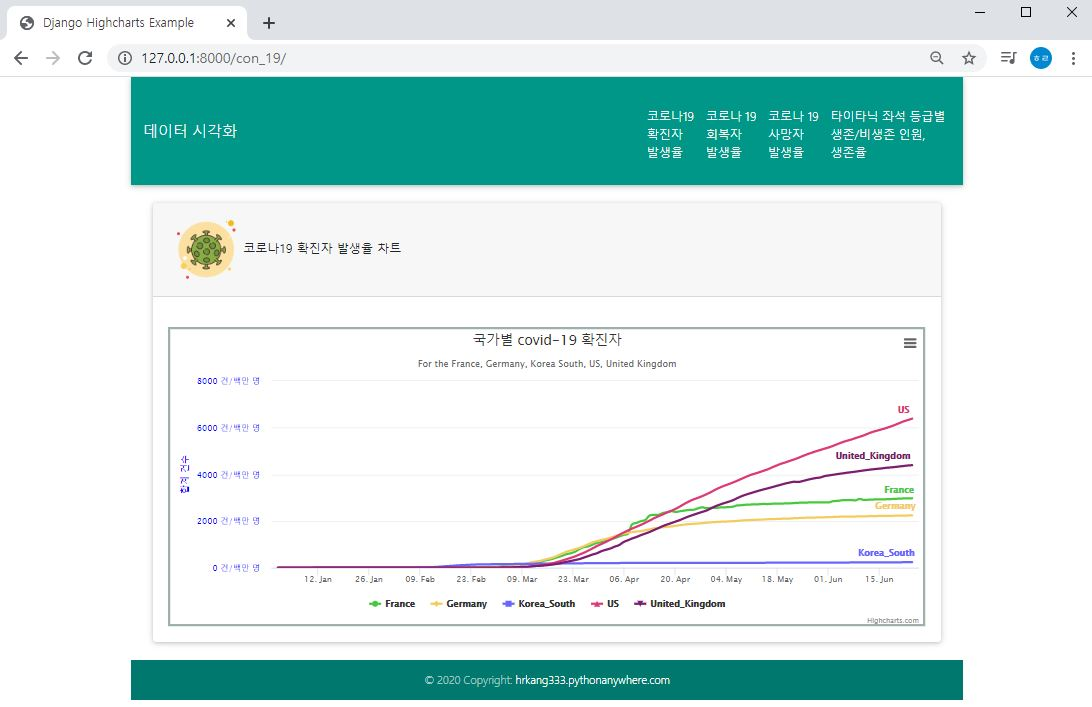
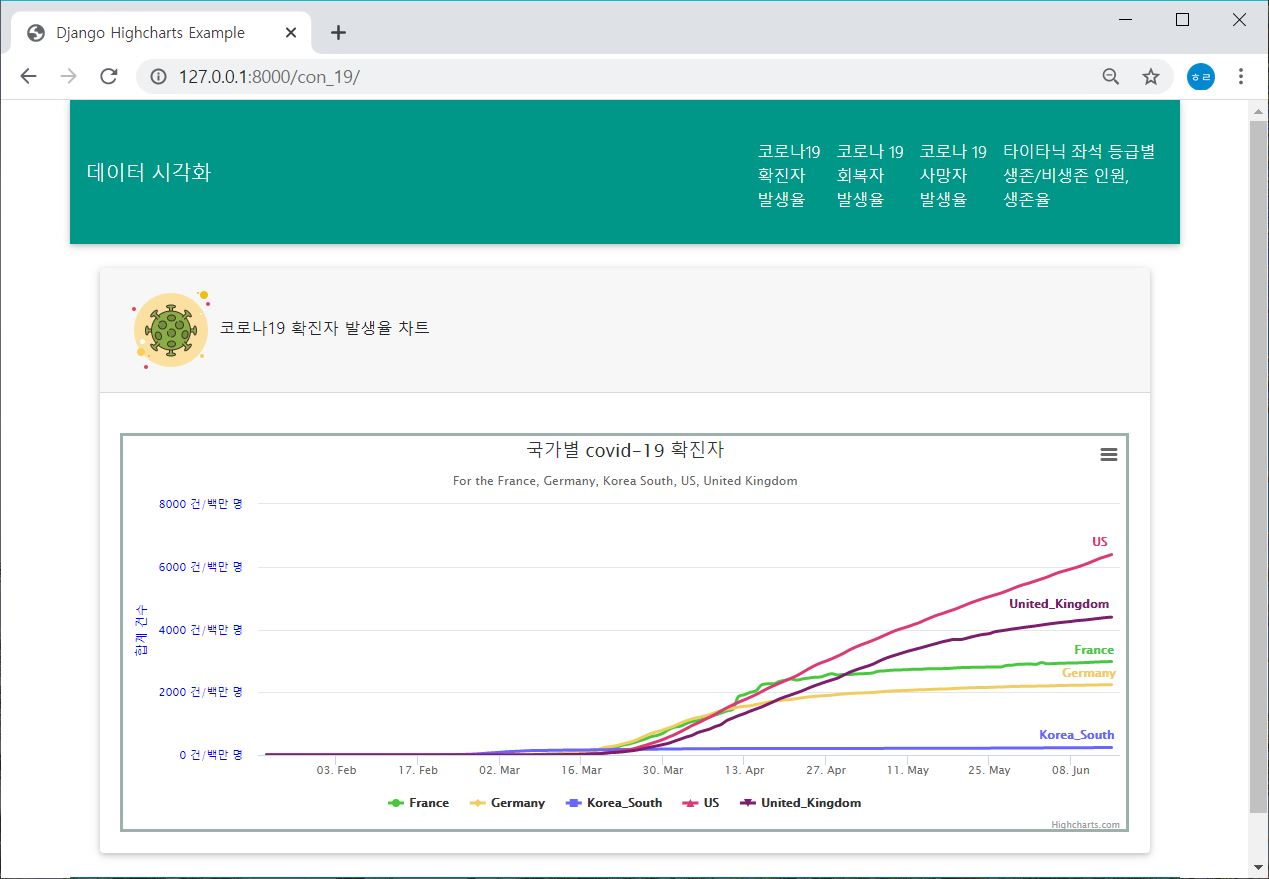
upload

diff --git a/chart/views.py b/chart/views.py
@@ -1,7 +1,10 @@
+import arrow
 from django.shortcuts import render
 from .models import Passenger, Confirmed, Deaths, Recovered
 from django.db.models import Count, Q
 import json  # ***json 임포트 추가***
+import pandas
+import numpy as np
 
 def home(request):  #메인
     dataset = Passenger.objects \
@@ -85,57 +88,52 @@ def con_19(request):    #확진자
 
 # 빈 리스트 6종 준비 (series 이름 뒤에 '_data' 추가)
     Date = list()                 # for xAxis
-    France_series_data = list()       # for series named 'France'
-    Germany_series_data = list()   # for series named 'Germany'
-    Korea_South_series_data = list()   # for series named 'Korea_South'
-    US_series_data = list()   # for series named 'US'
-    United_Kingdom_series_data = list()   # for series named 'United_Kingdom'
+    France_series_data = []       # for series named 'France'
+    Germany_series_data = []   # for series named 'Germany'
+    Korea_South_series_data = []   # for series named 'Korea_South'
+    US_series_data = []   # for series named 'US'
+    United_Kingdom_series_data = []   # for series named 'United_Kingdom'
 
 
  # 리스트 6종에 형식화된 값을 등록
     for entry in dataset:
-        Date.append(entry['Date'])         # for xAxis
 
+        Date = arrow.get(entry['Date'].year, entry['Date'].month, entry['Date'].day).timestamp*1000         # for xAxis
 
-        France_series_data.append(entry['France'])          # for series named 'France'
+        France_series_data.append([Date, np.around(entry['France'], 1)])          # for series named 'France'
 
-        Germany_series_data.append(entry['Germany'])          # for series named 'Germany'
+        Germany_series_data.append([Date, np.around(entry['Germany'], 1)])          # for series named 'Germany'
 
-        Korea_South_series_data.append(entry['Korea_South'])          # for series named 'Korea_South'
+        Korea_South_series_data.append([Date, np.around(entry['Korea_South'], 1)])          # for series named 'Korea_South'
 
-        US_series_data.append(entry['US'])          # for series named 'US'
+        US_series_data.append([Date, np.around(entry['US'], 1)])          # for series named 'US'
 
-        United_Kingdom_series_data.append(entry['United_Kingdom'])          # for series named 'United_Kingdom'
+        United_Kingdom_series_data.append([Date, np.around(entry['United_Kingdom'], 1)])          # for series named 'United_Kingdom'
 
 
     France_series = {
         'name': 'France',
         'data': France_series_data,
-        'pointInterval': 24 * 3600 * 1200,
         'color': '#47C83E'
     }
     Germany_series = {
         'name': 'Germany',
         'data': Germany_series_data,
-        'pointInterval': 24 * 3600 * 1200,
         'color': '#F2CB61'
     }
     Korea_South_series = {
         'name': 'Korea_South',
         'data': Korea_South_series_data,
-        'pointInterval': 24 * 3600 * 1200,
         'color': '#6866FF'
     }
     US_series = {
         'name': 'US',
         'data': US_series_data,
-        'pointInterval': 24 * 3600 * 1200,
         'color': '#DC3977'
     }
     United_Kingdom_series = {
         'name': 'United_Kingdom',
         'data': United_Kingdom_series_data,
-        'pointInterval': 24 * 3600 * 1200,
         'color': '#7C1D6F'
     }
 
@@ -144,7 +142,8 @@ def con_19(request):    #확진자
         'chart': {"type": "spline", "borderColor": "#9DB0AC", "borderWidth": 3},
         'title': {"text": "국가별 covid-19 확진자"},
         'subtitle': {"text": "For the France, Germany, Korea South, US, United Kingdom"},
-        'xAxis': {"type": "datetime", 'labels': {'format': '{value: %d. %b}'}},
+        'xAxis': {"type": "datetime",
+                 'labels': {'format': '{value: %d. %b}'}},
         'yAxis': [{"labels": {"format": "{value} 건/백만 명", "style": {"color": "blue"}},
                     "title": {"text": "합계 건수", "style": {"color": "blue"}}}],
         "plotOptions": {"spline": {"lineWidth": 3, "states": {"hover": {"lineWidth": 5}}}},
@@ -152,110 +151,7 @@ def con_19(request):    #확진자
         'series': [France_series, Germany_series, Korea_South_series, US_series, United_Kingdom_series]
     }
     dump = json.dumps(chart)
-
     return render(request, 'con_19.html', {'chart': dump})
-
-
-
-
-
-
-
-
-
-
-
-
-
-
-
-
-def dth_19(request):    #사망자
-    dataset = Deaths.objects \
-        .values('Date','France','Germany','Korea_South','US','United_Kingdom') \
-        .order_by('Date')
-
-# 빈 리스트 6종 준비 (series 이름 뒤에 '_data' 추가)
-    Date = list()                 # for xAxis
-    France_series_data = list()       # for series named 'France'
-    Germany_series_data = list()   # for series named 'Germany'
-    Korea_South_series_data = list()   # for series named 'Korea_South'
-    US_series_data = list()   # for series named 'US'
-    United_Kingdom_series_data = list()   # for series named 'United_Kingdom'
-
-
-    # 리스트 6종에 형식화된 값을 등록
-    for entry in dataset:
-        Date.append(entry['Date'])         # for xAxis
-
-
-        France_series_data.append(entry['France'])          # for series named 'France'
-
-        Germany_series_data.append(entry['Germany'])          # for series named 'Germany'
-
-        Korea_South_series_data.append(entry['Korea_South'])          # for series named 'Korea_South'
-
-        US_series_data.append(entry['US'])          # for series named 'US'
-
-        United_Kingdom_series_data.append(entry['United_Kingdom'])          # for series named 'United_Kingdom'
-
-
-    France_series = {
-        'name': 'France',
-        'data': France_series_data,
-        'pointInterval': 24 * 3600 * 1200,
-        'color': '#47C83E'
-    }
-    Germany_series = {
-        'name': 'Germany',
-        'data': Germany_series_data,
-        'pointInterval': 24 * 3600 * 1200,
-        'color': '#F2CB61'
-    }
-    Korea_South_series = {
-        'name': 'Korea_South',
-        'data': Korea_South_series_data,
-        'pointInterval': 24 * 3600 * 1200,
-        'color': '#6866FF'
-    }
-    US_series = {
-        'name': 'US',
-        'data': US_series_data,
-        'pointInterval': 24 * 3600 * 1200,
-        'color': '#DC3977'
-    }
-    United_Kingdom_series = {
-        'name': 'United_Kingdom',
-        'data': United_Kingdom_series_data,
-        'pointInterval': 24 * 3600 * 1200,
-        'color': '#7C1D6F'
-    }
-
-
-    chart = {
-        'chart': {"type": "spline", "borderColor": "#9DB0AC", "borderWidth": 3},
-        'title': {"text": "국가별 covid-19 사망자"},
-        'subtitle': {"text": "For the France, Germany, Korea South, US, United Kingdom"},
-        'xAxis': {"type": "datetime", 'labels': {'format': '{value: %d. %b}'}},
-        'yAxis': [{"labels": {"format": "{value} 건/백만 명", "style": {"color": "blue"}},
-                   "title": {"text": "합계 건수", "style": {"color": "blue"}}}],
-        "plotOptions": {"spline": {"lineWidth": 3, "states": {"hover": {"lineWidth": 5}}}},
-
-        'series': [France_series, Germany_series, Korea_South_series, US_series, United_Kingdom_series]
-    }
-    dump = json.dumps(chart)
-
-    return render(request, 'dth_19.html', {'chart': dump})
-
-
-
-
-
-
-
-
-
-
 
 
 
@@ -276,18 +172,18 @@ def rec_19(request):    #회복자
 
     # 리스트 6종에 형식화된 값을 등록
     for entry in dataset:
-        Date.append(entry['Date'])         # for xAxis
 
+        Date = arrow.get(entry['Date'].year, entry['Date'].month, entry['Date'].day).timestamp*1000         # for xAxis
 
-        France_series_data.append(entry['France'])          # for series named 'France'
+        France_series_data.append([Date, np.around(entry['France'], 1)])          # for series named 'France'
 
-        Germany_series_data.append(entry['Germany'])          # for series named 'Germany'
+        Germany_series_data.append([Date, np.around(entry['Germany'], 1)])          # for series named 'Germany'
 
-        Korea_South_series_data.append(entry['Korea_South'])          # for series named 'Korea_South'
+        Korea_South_series_data.append([Date, np.around(entry['Korea_South'], 1)])          # for series named 'Korea_South'
 
-        US_series_data.append(entry['US'])          # for series named 'US'
+        US_series_data.append([Date, np.around(entry['US'], 1)])          # for series named 'US'
 
-        United_Kingdom_series_data.append(entry['United_Kingdom'])          # for series named 'United_Kingdom'
+        United_Kingdom_series_data.append([Date, np.around(entry['United_Kingdom'], 1)])          # for series named 'United_Kingdom'
 
 
     France_series = {
@@ -343,7 +239,77 @@ def rec_19(request):    #회복자
 
 
 
+def dth_19(request):    #사망자
+    dataset = Deaths.objects \
+        .values('Date','France','Germany','Korea_South','US','United_Kingdom') \
+        .order_by('Date')
 
+# 빈 리스트 6종 준비 (series 이름 뒤에 '_data' 추가)
+    Date = list()                 # for xAxis
+    France_series_data = list()       # for series named 'France'
+    Germany_series_data = list()   # for series named 'Germany'
+    Korea_South_series_data = list()   # for series named 'Korea_South'
+    US_series_data = list()   # for series named 'US'
+    United_Kingdom_series_data = list()   # for series named 'United_Kingdom'
+
+
+    # 리스트 6종에 형식화된 값을 등록
+    for entry in dataset:
+
+        Date = arrow.get(entry['Date'].year, entry['Date'].month, entry['Date'].day).timestamp*1000         # for xAxis
+
+        France_series_data.append([Date, np.around(entry['France'], 1)])          # for series named 'France'
+
+        Germany_series_data.append([Date, np.around(entry['Germany'], 1)])          # for series named 'Germany'
+
+        Korea_South_series_data.append([Date, np.around(entry['Korea_South'], 1)])          # for series named 'Korea_South'
+
+        US_series_data.append([Date, np.around(entry['US'], 1)])          # for series named 'US'
+
+        United_Kingdom_series_data.append([Date, np.around(entry['United_Kingdom'], 1)])          # for series named 'United_Kingdom'
+
+
+    France_series = {
+        'name': 'France',
+        'data': France_series_data,
+        'color': '#47C83E'
+    }
+    Germany_series = {
+        'name': 'Germany',
+        'data': Germany_series_data,
+        'color': '#F2CB61'
+    }
+    Korea_South_series = {
+        'name': 'Korea_South',
+        'data': Korea_South_series_data,
+        'color': '#6866FF'
+    }
+    US_series = {
+        'name': 'US',
+        'data': US_series_data,
+        'color': '#DC3977'
+    }
+    United_Kingdom_series = {
+        'name': 'United_Kingdom',
+        'data': United_Kingdom_series_data,
+        'color': '#7C1D6F'
+    }
+
+
+    chart = {
+        'chart': {"type": "spline", "borderColor": "#9DB0AC", "borderWidth": 3},
+        'title': {"text": "국가별 covid-19 사망자"},
+        'subtitle': {"text": "For the France, Germany, Korea South, US, United Kingdom"},
+        'xAxis': {"type": "datetime", 'labels': {'format': '{value: %d. %b}'}},
+        'yAxis': [{"labels": {"format": "{value} 건/백만 명", "style": {"color": "blue"}},
+                   "title": {"text": "합계 건수", "style": {"color": "blue"}}}],
+        "plotOptions": {"spline": {"lineWidth": 3, "states": {"hover": {"lineWidth": 5}}}},
+
+        'series': [France_series, Germany_series, Korea_South_series, US_series, United_Kingdom_series]
+    }
+    dump = json.dumps(chart)
+
+    return render(request, 'dth_19.html', {'chart': dump})
 
 
 

diff --git a/chart/models.py b/chart/models.py
@@ -1,7 +1,7 @@
 from django.db import models
 
 class Confirmed(models.Model):
-    Date = models.CharField(max_length=100)
+    Date = models.DateField()
     France = models.FloatField(null=True)
     Germany = models.FloatField(null=True)
     Korea_South = models.FloatField(null=True)
@@ -9,7 +9,7 @@ class Confirmed(models.Model):
     United_Kingdom = models.FloatField(null=True)
 
 class Deaths(models.Model):
-    Date = models.CharField(max_length=100)
+    Date = models.DateField()
     France = models.FloatField(null=True)
     Germany = models.FloatField(null=True)
     Korea_South = models.FloatField(null=True)
@@ -17,7 +17,7 @@ class Deaths(models.Model):
     United_Kingdom = models.FloatField(null=True)
 
 class Recovered(models.Model):
-    Date = models.CharField(max_length=100)
+    Date = models.DateField()
     France = models.FloatField(null=True)
     Germany = models.FloatField(null=True)
     Korea_South = models.FloatField(null=True)

diff --git a/chart/migrations/0012_auto_20200624_1317.py b/chart/migrations/0012_auto_20200624_1317.py
@@ -1,0 +1,23 @@
+# Generated by Django 3.0.3 on 2020-06-24 04:17
+
+from django.db import migrations, models
+
+
+class Migration(migrations.Migration):
+
+    dependencies = [
+        ('chart', '0011_auto_20200624_1301'),
+    ]
+
+    operations = [
+        migrations.AlterField(
+            model_name='deaths',
+            name='Date',
+            field=models.DateField(),
+        ),
+        migrations.AlterField(
+            model_name='recovered',
+            name='Date',
+            field=models.DateField(),
+        ),
+    ]

diff --git a/chart/migrations/0010_auto_20200622_1503.py b/chart/migrations/0010_auto_20200622_1503.py
@@ -1,0 +1,18 @@
+# Generated by Django 3.0.3 on 2020-06-22 06:03
+
+from django.db import migrations, models
+
+
+class Migration(migrations.Migration):
+
+    dependencies = [
+        ('chart', '0009_auto_20200617_2023'),
+    ]
+
+    operations = [
+        migrations.AlterField(
+            model_name='confirmed',
+            name='Date',
+            field=models.DateField(max_length=100),
+        ),
+    ]

diff --git a/chart/migrations/0011_auto_20200624_1301.py b/chart/migrations/0011_auto_20200624_1301.py
@@ -1,0 +1,18 @@
+# Generated by Django 3.0.3 on 2020-06-24 04:01
+
+from django.db import migrations, models
+
+
+class Migration(migrations.Migration):
+
+    dependencies = [
+        ('chart', '0010_auto_20200622_1503'),
+    ]
+
+    operations = [
+        migrations.AlterField(
+            model_name='confirmed',
+            name='Date',
+            field=models.DateField(),
+        ),
+    ]
